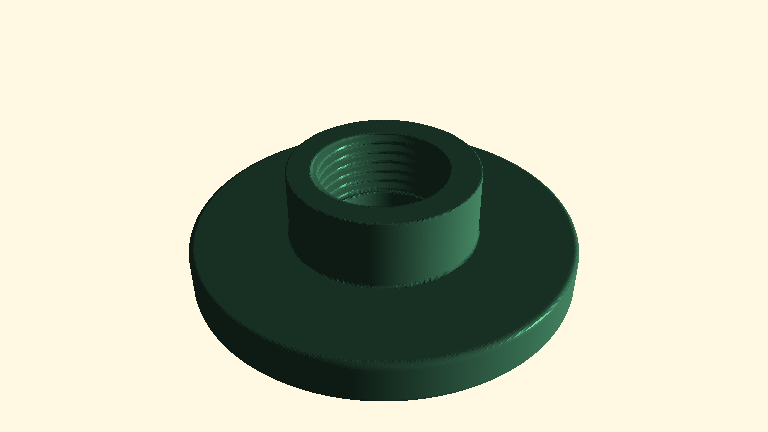
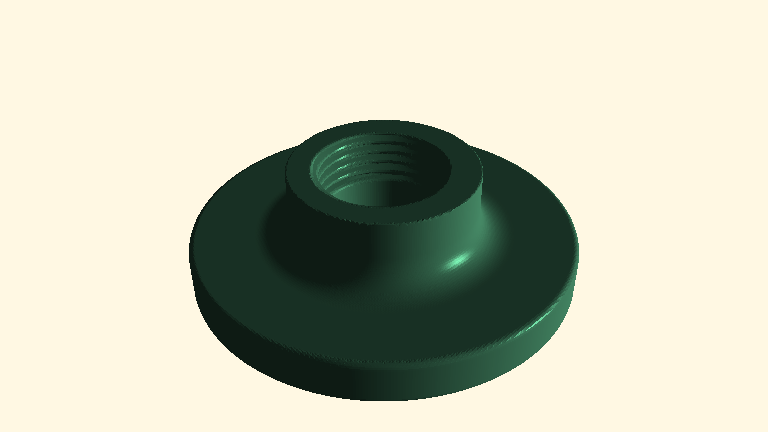
refactor npt-flange example

Changed region(s): [[0.5312, 0.4514, 0.6562, 0.662], [0.4375, 0.4213, 0.4688, 0.4815]]

diff --git a/examples/npt-flange/flange.go b/examples/npt-flange/flange.go
@@ -33,9 +33,13 @@ func main() {
 	// PLA scaling to thread
 	pipe = sdf.Transform3D(pipe, sdf.Scale3d(r3.Vec{plaScale, plaScale, 1}))
 	flange = form3.Cylinder(flangeH, flangeD/2, flangeH/8)
-	hole := form3.Cylinder(flangeH, internalDiameter/2, 0)
-	flange = sdf.Difference3D(flange, hole)
 	flange = sdf.Transform3D(flange, sdf.Translate3d(r3.Vec{0, 0, -tlen / 2}))
-	pipe = sdf.Union3D(pipe, flange)
+	union := sdf.Union3D(pipe, flange)
+	// set flange fillet
+	union.SetMin(sdf.MinPoly(0.2))
+	// Make through-hole in flange bottom
+	hole := form3.Cylinder(4*flangeH, internalDiameter/2, 0)
+	pipe = sdf.Difference3D(union, hole)
+	pipe = sdf.ScaleUniform3D(pipe, 25.4) //convert to millimeters
 	render.CreateSTL("npt_flange.stl", render.NewOctreeRenderer(pipe, 200))
 }

diff --git a/examples/README.md b/examples/README.md
@@ -16,7 +16,7 @@ Click on image to go to code directory.
 
 | Example | Execution Time | File size |
 |---|---|---|
-|NPT Flange|1s|11MB|
+|NPT Flange|1s|10MB|
 
 [![NPT Flange](fig/npt-flange.png)](npt-flange)
 
